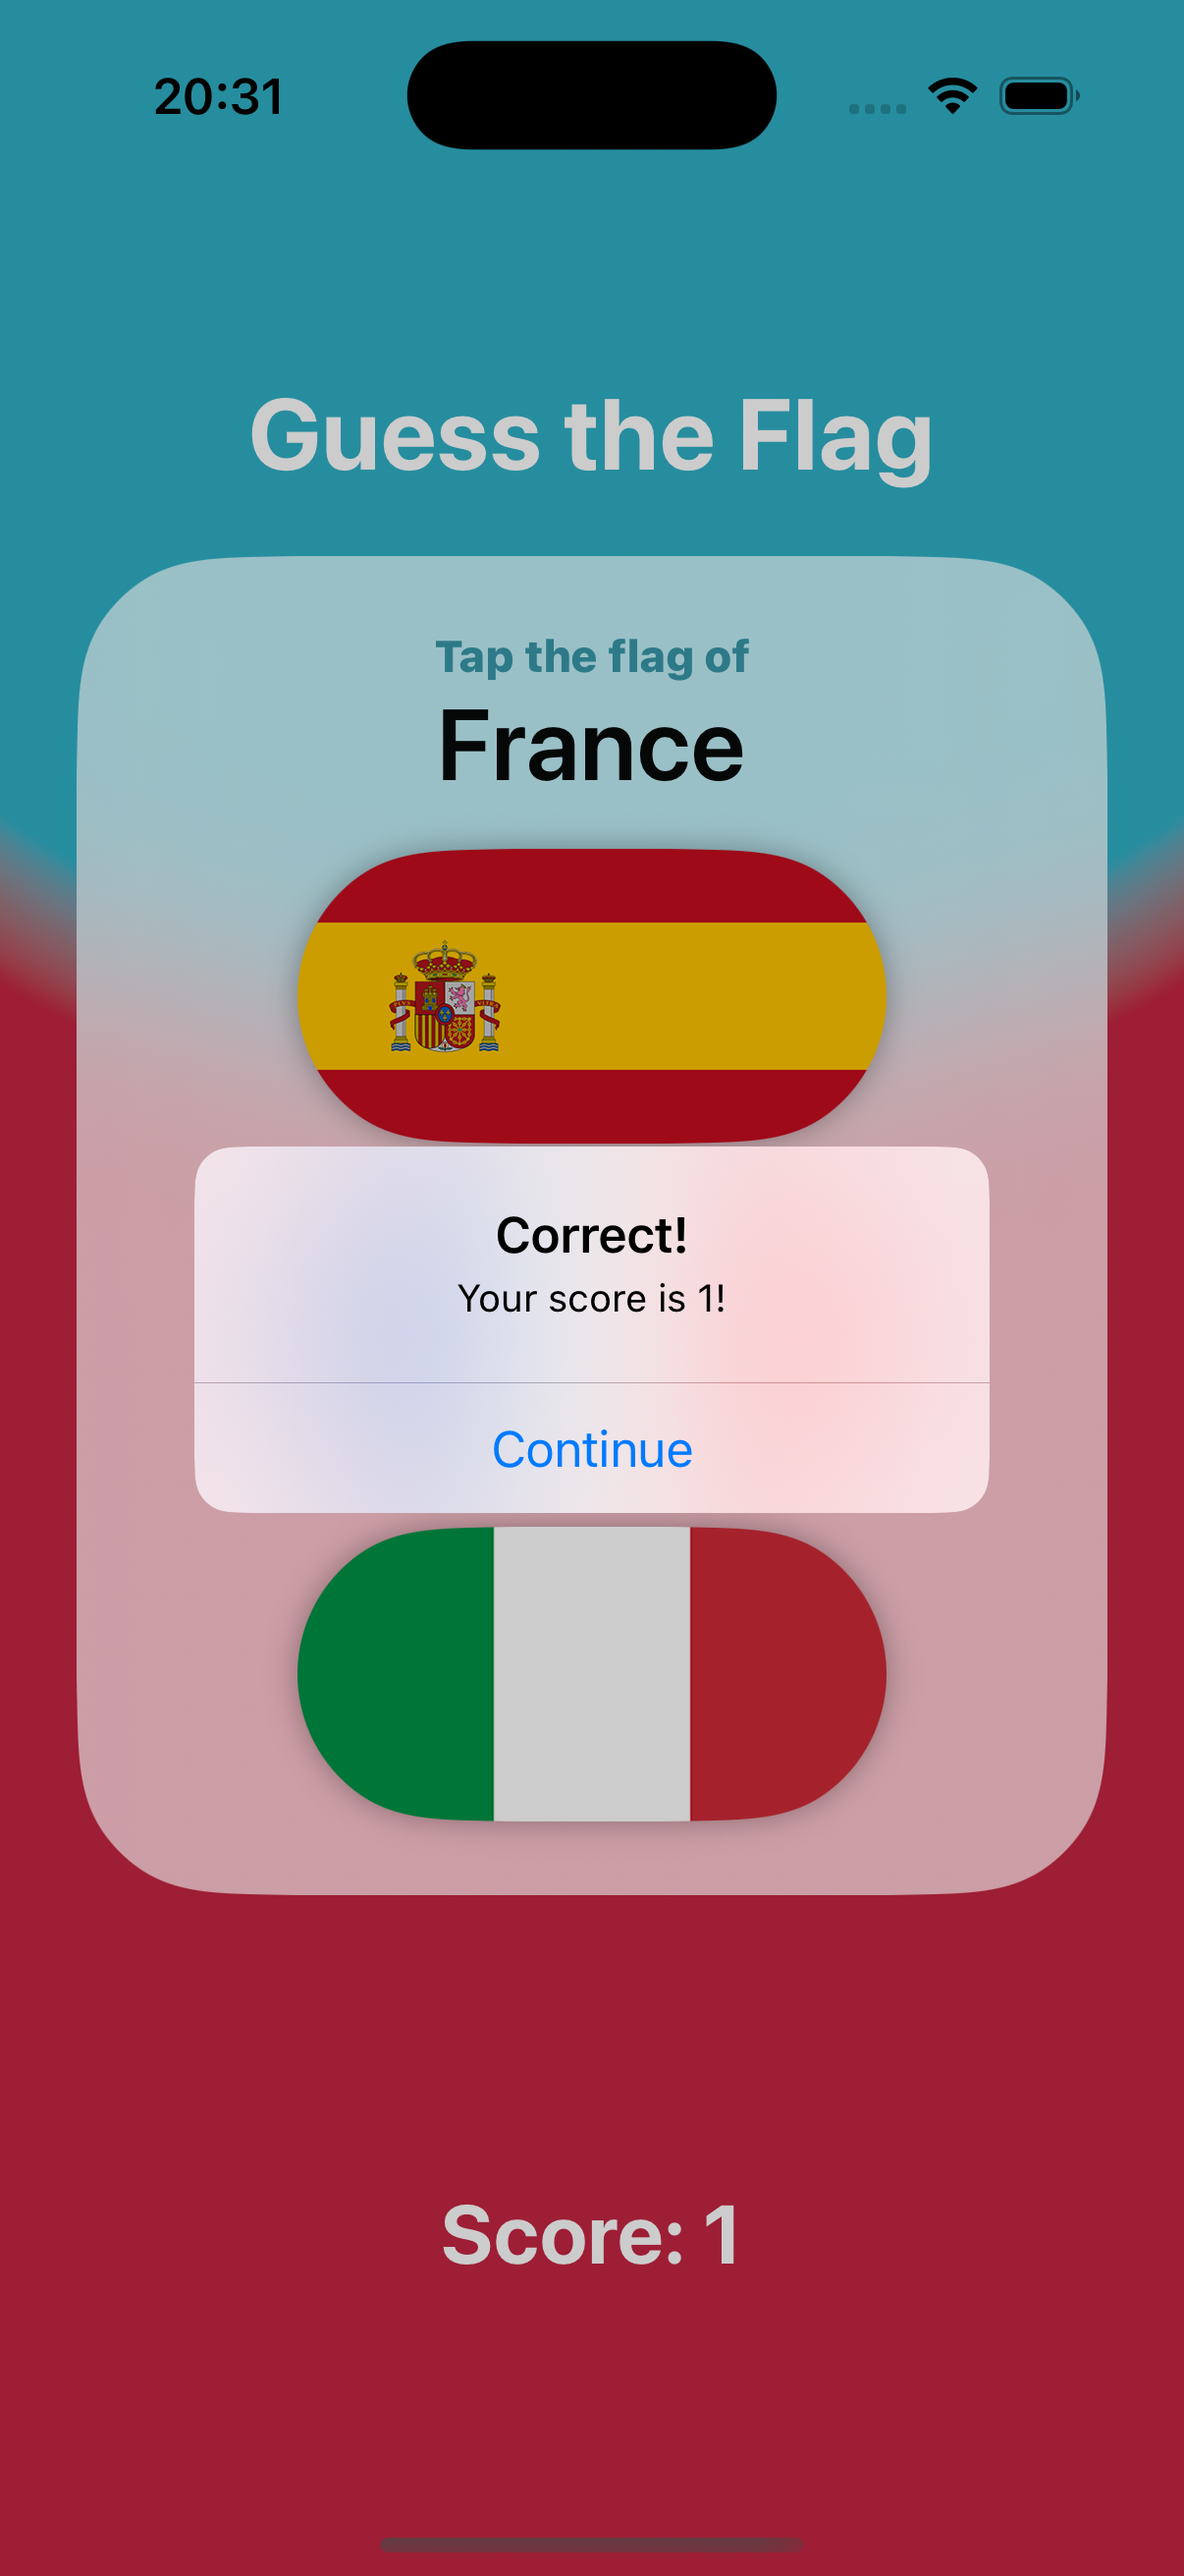
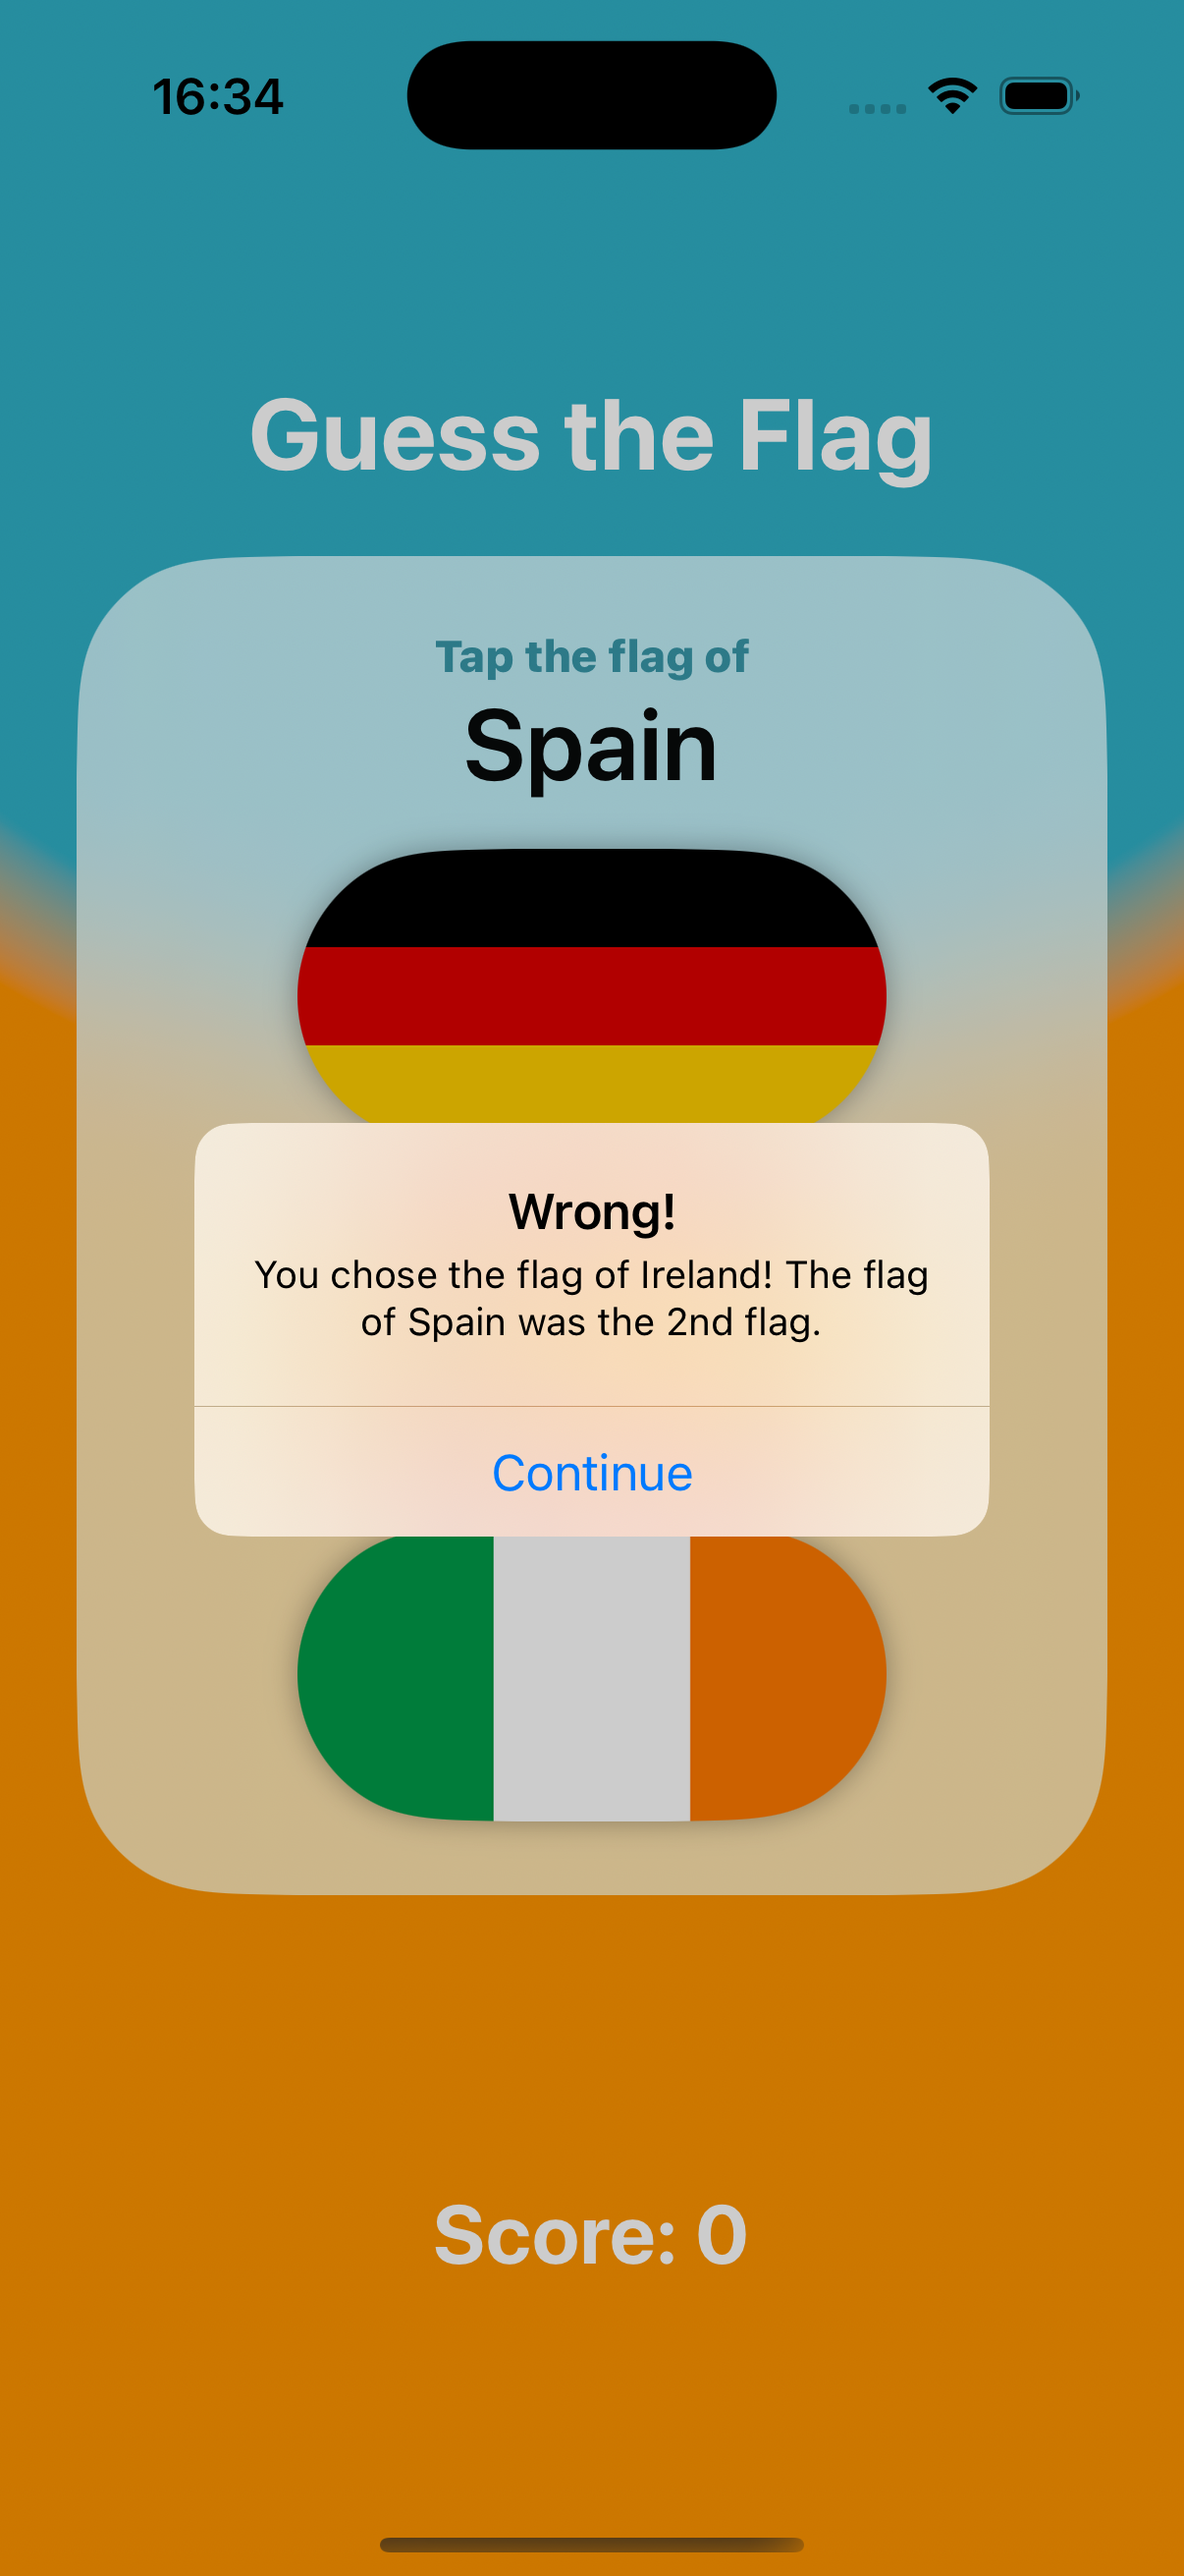
Guess the Flag update 1.0.1

diff --git a/GuessTheFlag/ContentView.swift b/GuessTheFlag/ContentView.swift
@@ -20,14 +20,25 @@ struct ContentView: View {
     @State private var questionCount = 0
     @State private var gameIsOver = false
     @State private var gameOver = ""
+    @State private var userAnswer = 0
+    
+struct FlagImage: View {
+    var imageName: String
+        
+    var body: some View {
+            Image(imageName)
+                .clipShape(.capsule)
+                .shadow(radius: 5)
+    }
+}
     
     var body: some View {
         ZStack {
             RadialGradient(stops: [
                 .init(color: .teal, location: 0.23),
-                .init(color: Color(red:0.77, green: 0.15, blue: 0.26), location: 0.33)
+                .init(color: .orange, location: 0.33)
             ], center: .top, startRadius: 235, endRadius: 700)
-                .ignoresSafeArea()
+            .ignoresSafeArea()
             
             VStack {
                 Spacer()
@@ -50,9 +61,7 @@ struct ContentView: View {
                     Button {
                         flagTapped(number)
                     } label: {
-                        Image(countries[number])
-                            .clipShape(.capsule)
-                            .shadow(radius: 5)
+                        FlagImage(imageName: countries[number])
                     }
                 }
             }
@@ -79,7 +88,7 @@ struct ContentView: View {
             if  scoreTitle == "Correct!" {
             Text("Your score is \(userScore)!")
             } else {
-                Text("The correct answer was \(countries[correctAnswer])!")
+                Text("You chose the flag of \(countries[userAnswer])! The flag of \(countries[correctAnswer]) was the \(positionText(for: correctAnswer)) flag.")
             }
         }
         .alert(gameOver, isPresented: $gameIsOver) {
@@ -99,7 +108,16 @@ struct ContentView: View {
         questionCount += 1
     }
     
+    func positionText(for number: Int) -> String {
+        switch number {
+        case 0: return "1st"
+        case 1: return "2nd"
+        default: return "3rd"
+        }
+    }
+    
     func flagTapped(_ number: Int) {
+        userAnswer = number
         if number == correctAnswer {
             scoreTitle = "Correct!"
         } else {

diff --git a/CHANGELOG.md b/CHANGELOG.md
@@ -1,0 +1,15 @@
+# Changelog
+
+All notable changes to this project will be documented in this file.
+
+## [1.0.1] - 2025-05-05
+### Changed
+- Replaced individual flag `Image` views with a reusable `FlagImage` view component.
+- Cleaned up the codebase to improve readability.
+- "Wrong!" alert now shows what the correct answer was.
+
+## [1.0.0] - 2025-05-04
+### Added
+- Initial version of the app based on Hacking with Swift Project 2.
+
+
